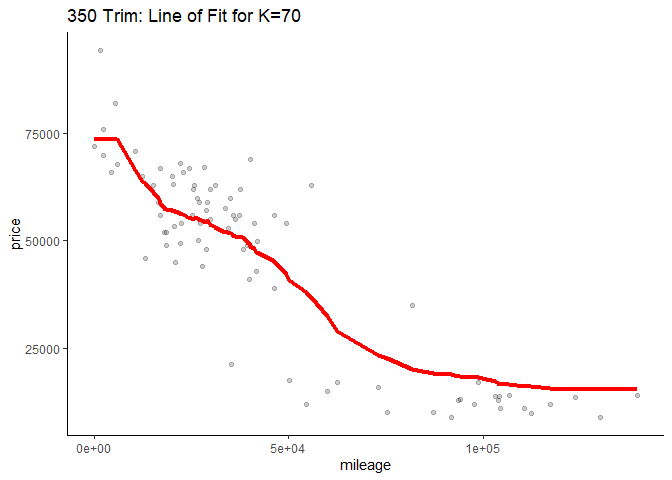
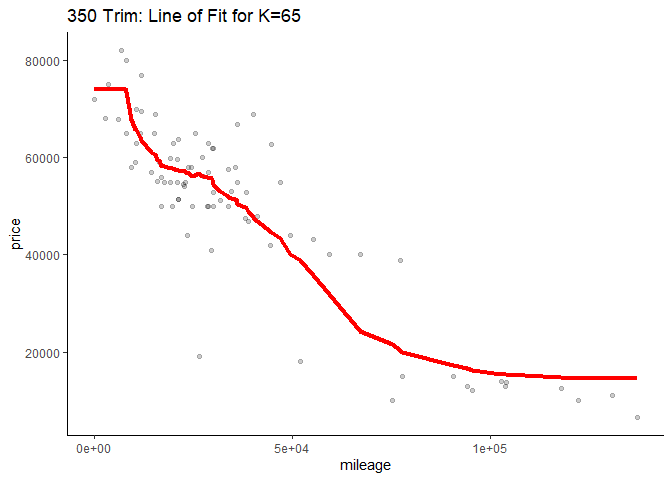
update

diff --git a/Collaborative/Homework1.md b/Collaborative/Homework1.md
@@ -12,14 +12,14 @@ Doing this with the 350 trims yields the following results.
 ![](Homework1_files/figure-markdown_strict/unnamed-chunk-2-1.png)![](Homework1_files/figure-markdown_strict/unnamed-chunk-2-2.png)
 
 From the 350 Trim chart of RMSE versus K, we see that the optimal K is
-70, as such we fit the KNN model with k=70 to the test data as shown
+65, as such we fit the KNN model with k=65 to the test data as shown
 above.
 
 Similarly, we can find an optimal K value for the AMG trim cars.
 
 ![](Homework1_files/figure-markdown_strict/unnamed-chunk-3-1.png)![](Homework1_files/figure-markdown_strict/unnamed-chunk-3-2.png)
 
-We see that the 1SE approach yields an optimal k=55. We observe higher
+We see that the 1SE approach yields an optimal k=50. We observe higher
 optimal K values for the 350 trim as compared to the AMG. This is due to
 the fact that the number of observations for the AMG trim is much lower
 than that of the 350. Thus to earn a lower RMSE, we need a more flexible
